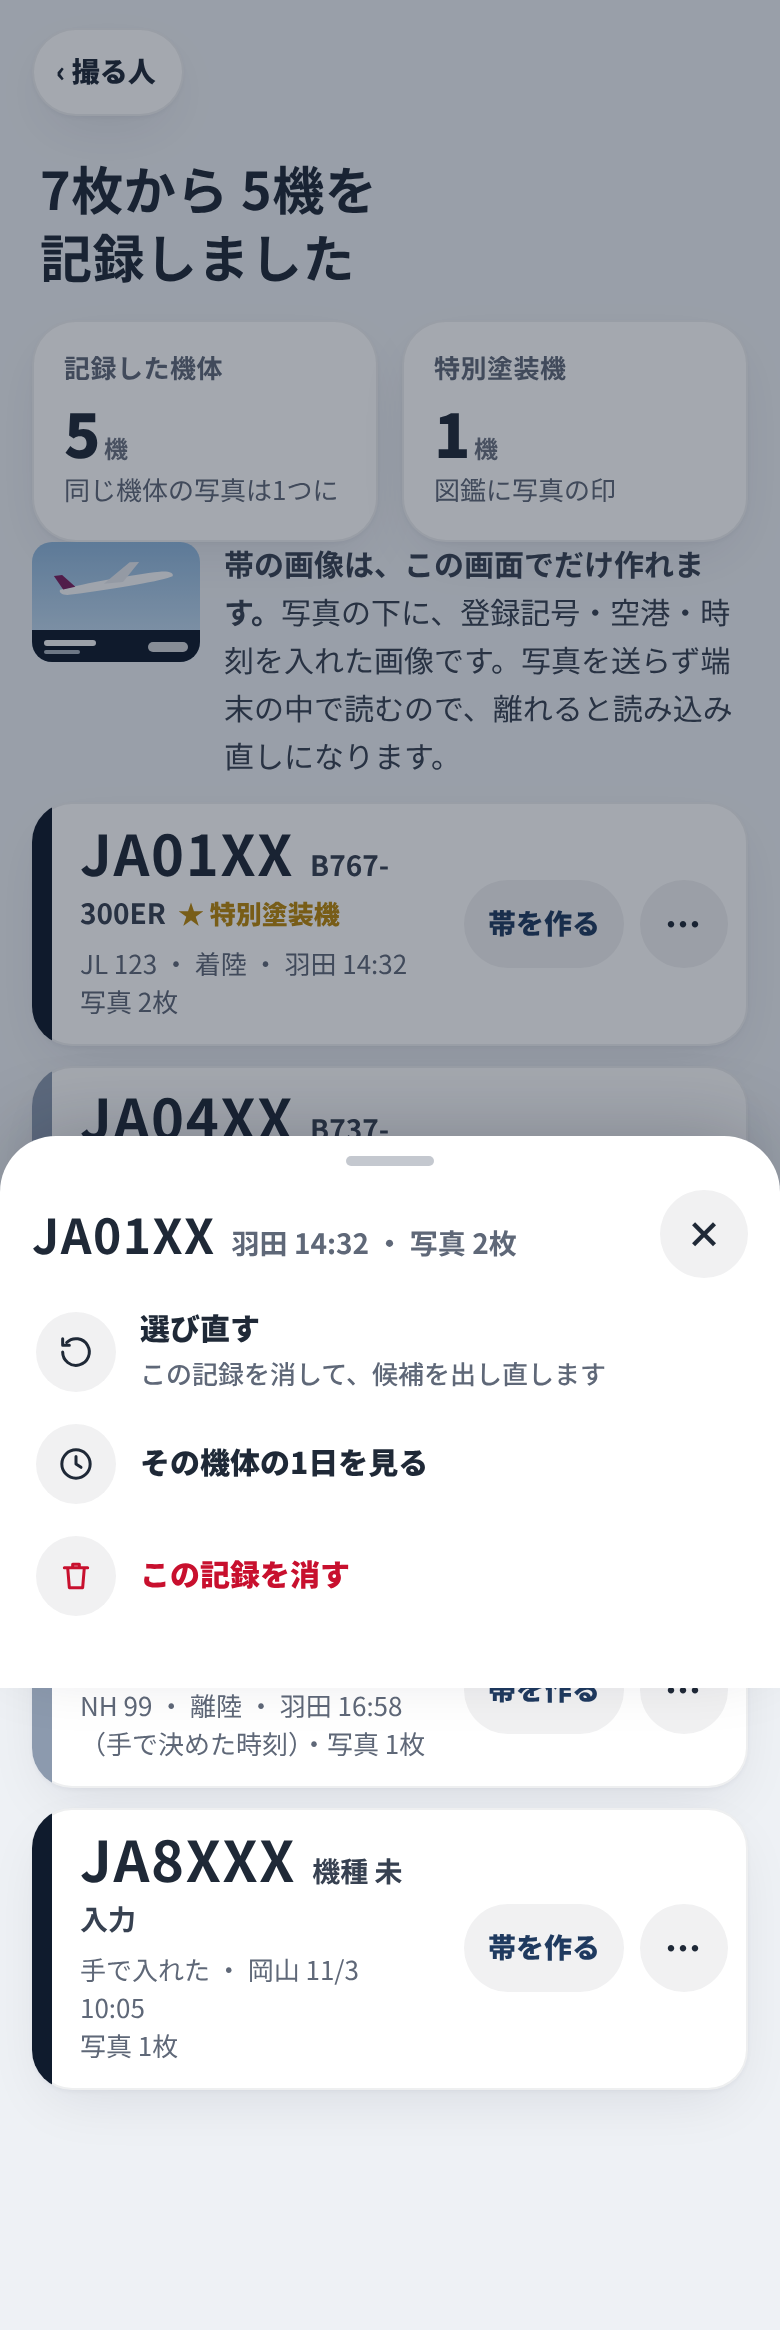
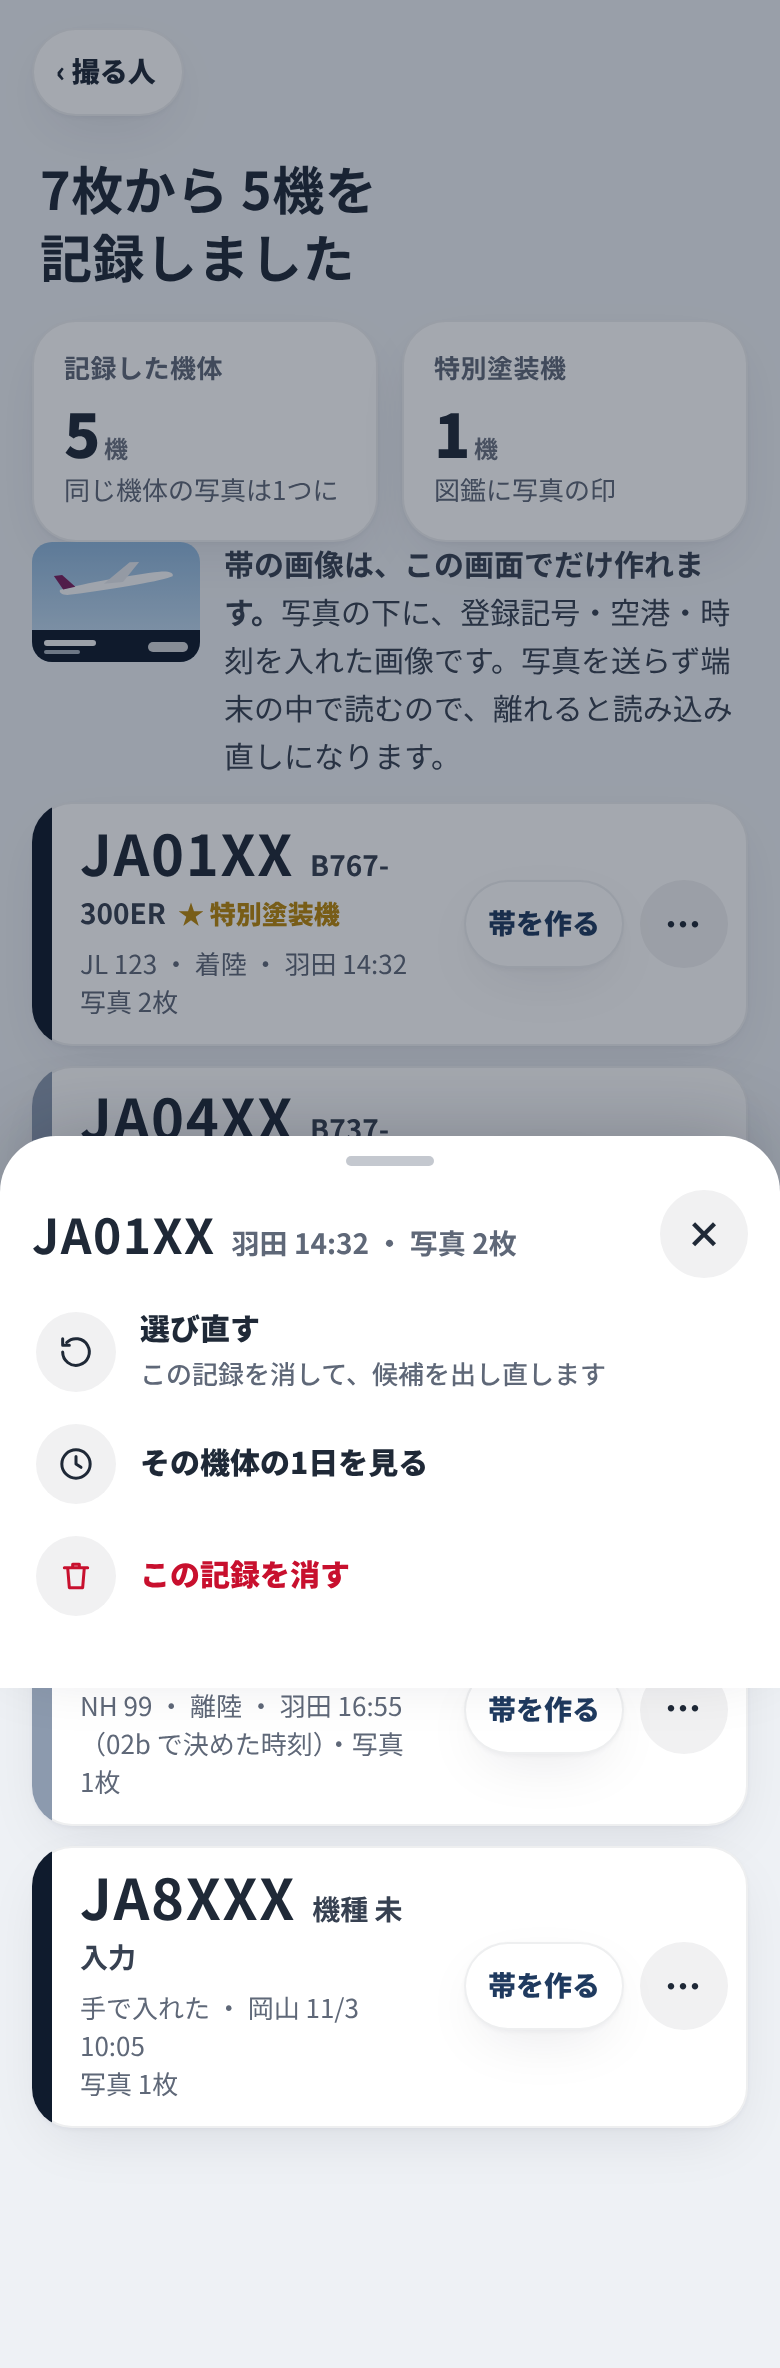
撮影記録の画面案 4版：PM の指示（11/7 1時35分）に合わせ、帯のピルを白地に紺の字に・02d の時刻なしの写真を決めた時刻で記録する形にし、報告に review-3 への対応表を足す
Claude-Session: https://claude.ai/code/session_01WGRBVLyUzvfRYV5NGKWhRZ

diff --git a/docs/design/photo-log/02d-done-v4.html b/docs/design/photo-log/02d-done-v4.html
@@ -317,7 +317,7 @@ p.lead{font-size:15px;color:var(--ink);margin:10px 4px 0;line-height:1.7}
 @media (prefers-color-scheme:dark){:root:not([data-theme=light]){--navy-ink:#A9C3E6}}
 :root[data-theme=dark]{--navy-ink:#A9C3E6}
 .clk .ln .v.q{font-size:14px;color:var(--ink);background:var(--pill);padding:4px 10px;border-radius:999px}
-.bandp{background:var(--pill);color:var(--navy-ink);padding:0 12px;font-size:14px}
+.bandp{background:var(--card);color:var(--navy-ink);padding:0 12px;font-size:14px;box-shadow:var(--shadow)}
 .bandp.done{background:var(--pill);color:var(--sub)}
 .strip .m small{word-break:keep-all}
 .strip .m .ty .star{margin-left:6px;font-size:13px}
@@ -338,14 +338,14 @@ p.lead{font-size:15px;color:var(--ink);margin:10px 4px 0;line-height:1.7}
 <div class="strip"><span class="bd" aria-hidden="true"></span><div class="m"><span class="rg">JA01XX</span><span class="ty">B767-300ER<span class="star">★ 特別塗装機</span></span><small>JL 123 ・ 着陸 ・ 羽田 14:32<br>写真 2枚</small></div><div class="r rm"><span class="bandp" aria-label="帯を入れた画像を作る">帯を作る</span><span class="more" aria-label="この記録のメニュー">…</span></div></div>
 <div class="strip dep"><span class="bd" aria-hidden="true"></span><div class="m"><span class="rg">JA04XX</span><span class="ty">B737-800</span><small>JL 220 ・ 離陸 ・ 羽田 14:29<br>写真 1枚</small></div><div class="r rm"><span class="bandp" aria-label="帯を入れた画像を作る">帯を作る</span><span class="more" aria-label="この記録のメニュー">…</span></div></div>
 <div class="strip dep"><span class="bd" aria-hidden="true"></span><div class="m"><span class="rg">JA09XX</span><span class="ty">B777-300ER</span><small>JL 915 ・ 離陸 ・ 羽田 14:21<br>写真 2枚</small></div><div class="r rm"><span class="bandp" aria-label="帯を入れた画像を作る">帯を作る</span><span class="more" aria-label="この記録のメニュー">…</span></div></div>
-<div class="strip dep"><span class="bd" aria-hidden="true"></span><div class="m"><span class="rg">JA06XX</span><span class="ty">A321neo</span><small>NH 99 ・ 離陸 ・ 羽田 16:58<br>（手で決めた時刻）・写真 1枚</small></div><div class="r rm"><span class="bandp" aria-label="帯を入れた画像を作る">帯を作る</span><span class="more" aria-label="この記録のメニュー">…</span></div></div>
+<div class="strip dep"><span class="bd" aria-hidden="true"></span><div class="m"><span class="rg">JA06XX</span><span class="ty">A321neo</span><small>NH 99 ・ 離陸 ・ 羽田 16:55<br>（02b で決めた時刻）・写真 1枚</small></div><div class="r rm"><span class="bandp" aria-label="帯を入れた画像を作る">帯を作る</span><span class="more" aria-label="この記録のメニュー">…</span></div></div>
 <div class="strip unk"><span class="bd" aria-hidden="true"></span><div class="m"><span class="rg">JA8XXX</span><span class="ty none">機種 未入力</span><small>手で入れた ・ 岡山 11/3 10:05<br>写真 1枚</small></div><div class="r rm"><span class="bandp" aria-label="帯を入れた画像を作る">帯を作る</span><span class="more" aria-label="この記録のメニュー">…</span></div></div>
 
 </div>
 <div class="foot2"><span class="btn sec">図鑑を見る</span><span class="btn navy">撮った機体の一覧へ</span></div>
 </main>
 
-<aside class="ann"><b>メモ（本番には出ません）</b><ul><li><b>4版で直したこと（3回目の指摘3）</b>：上のカードに帯の画像の小さい見本（写真の下に紺の帯）と「写真の下に、登録記号・空港・時刻を入れた画像です」。行のピルは紺で塗らず、薄い灰色の地に紺の字「帯を作る」。紺で塗るのは下の主のボタン「撮った機体の一覧へ」だけ。作ったあとは灰色の「帯 ✓」</li><li><b>4版で直したこと（3回目の指摘1）</b>：時刻のなかった写真（JA06XX）は「羽田 16:58（手で決めた時刻）」。02b で本人が決めた時刻だと分かる形</li><li><b>4版で直したこと（3回目の指摘6）</b>：「★ 特別塗装機」を機種の横へ移し、3行目は「JL 123 ・ 着陸 ・ 羽田 14:32」。言葉の途中で折り返さないよう区切りごとに折り返す</li><li>上のタイルの補足は「図鑑に写真の印」（図鑑の「撮った」の意味を1つにしたため。05 を見る）</li><li>まだ1つも作らずに下のボタン・「‹ 撮る人」を押したときは 02f の知らせを1回出す。「…」は「選び直す」「この記録を消す」「その機体の1日を見る」（02e）</li><li>手で入れた JA8XXX（着陸か離陸か分からない）は帯を薄い灰色</li></ul></aside>
+<aside class="ann"><b>メモ（本番には出ません）</b><ul><li><b>4版で直したこと（3回目の指摘3）</b>：上のカードに帯の画像の小さい見本（写真の下に紺の帯）と「写真の下に、登録記号・空港・時刻を入れた画像です」。行のピルは紺で塗らず、白地に紺の字「帯を作る」（白いカードの上なので薄い影で形を見せる）。紺で塗るのは下の主のボタン「撮った機体の一覧へ」だけ。作ったあとは灰色の「帯 ✓」</li><li><b>4版で直したこと（3回目の指摘1）</b>：時刻のなかった写真（JA06XX）は「羽田 16:55（02b で決めた時刻）」。ファイルの時刻（16:58）のままでは記録せず、02b で本人が時刻を決めてから候補を出したものだけ記録する。見本ではファイルの時刻と違う値にして、決めた時刻だと分かるようにした</li><li><b>4版で直したこと（3回目の指摘6）</b>：「★ 特別塗装機」を機種の横へ移し、3行目は「JL 123 ・ 着陸 ・ 羽田 14:32」。言葉の途中で折り返さないよう区切りごとに折り返す</li><li>上のタイルの補足は「図鑑に写真の印」（図鑑の「撮った」の意味を1つにしたため。05 を見る）</li><li>まだ1つも作らずに下のボタン・「‹ 撮る人」を押したときは 02f の知らせを1回出す。「…」は「選び直す」「この記録を消す」「その機体の1日を見る」（02e）</li><li>手で入れた JA8XXX（着陸か離陸か分からない）は帯を薄い灰色</li></ul></aside>
 <script>if(window!==window.top){var a=document.querySelector('.ann');if(a)a.remove()}</script>
 </body>
 </html>

diff --git a/docs/design/photo-log/02e-row-menu-v4.html b/docs/design/photo-log/02e-row-menu-v4.html
@@ -288,7 +288,7 @@ p.lead{font-size:15px;color:var(--ink);margin:10px 4px 0;line-height:1.7}
 @media (prefers-color-scheme:dark){:root:not([data-theme=light]){--navy-ink:#A9C3E6}}
 :root[data-theme=dark]{--navy-ink:#A9C3E6}
 .clk .ln .v.q{font-size:14px;color:var(--ink);background:var(--pill);padding:4px 10px;border-radius:999px}
-.bandp{background:var(--pill);color:var(--navy-ink);padding:0 12px;font-size:14px}
+.bandp{background:var(--card);color:var(--navy-ink);padding:0 12px;font-size:14px;box-shadow:var(--shadow)}
 .bandp.done{background:var(--pill);color:var(--sub)}
 .strip .m small{word-break:keep-all}
 .strip .m .ty .star{margin-left:6px;font-size:13px}
@@ -310,7 +310,7 @@ p.lead{font-size:15px;color:var(--ink);margin:10px 4px 0;line-height:1.7}
 <div class="strip"><span class="bd" aria-hidden="true"></span><div class="m"><span class="rg">JA01XX</span><span class="ty">B767-300ER<span class="star">★ 特別塗装機</span></span><small>JL 123 ・ 着陸 ・ 羽田 14:32<br>写真 2枚</small></div><div class="r rm"><span class="bandp" aria-label="帯を入れた画像を作る">帯を作る</span><span class="more" aria-label="この記録のメニュー">…</span></div></div>
 <div class="strip dep"><span class="bd" aria-hidden="true"></span><div class="m"><span class="rg">JA04XX</span><span class="ty">B737-800</span><small>JL 220 ・ 離陸 ・ 羽田 14:29<br>写真 1枚</small></div><div class="r rm"><span class="bandp" aria-label="帯を入れた画像を作る">帯を作る</span><span class="more" aria-label="この記録のメニュー">…</span></div></div>
 <div class="strip dep"><span class="bd" aria-hidden="true"></span><div class="m"><span class="rg">JA09XX</span><span class="ty">B777-300ER</span><small>JL 915 ・ 離陸 ・ 羽田 14:21<br>写真 2枚</small></div><div class="r rm"><span class="bandp" aria-label="帯を入れた画像を作る">帯を作る</span><span class="more" aria-label="この記録のメニュー">…</span></div></div>
-<div class="strip dep"><span class="bd" aria-hidden="true"></span><div class="m"><span class="rg">JA06XX</span><span class="ty">A321neo</span><small>NH 99 ・ 離陸 ・ 羽田 16:58<br>（手で決めた時刻）・写真 1枚</small></div><div class="r rm"><span class="bandp" aria-label="帯を入れた画像を作る">帯を作る</span><span class="more" aria-label="この記録のメニュー">…</span></div></div>
+<div class="strip dep"><span class="bd" aria-hidden="true"></span><div class="m"><span class="rg">JA06XX</span><span class="ty">A321neo</span><small>NH 99 ・ 離陸 ・ 羽田 16:55<br>（02b で決めた時刻）・写真 1枚</small></div><div class="r rm"><span class="bandp" aria-label="帯を入れた画像を作る">帯を作る</span><span class="more" aria-label="この記録のメニュー">…</span></div></div>
 <div class="strip unk"><span class="bd" aria-hidden="true"></span><div class="m"><span class="rg">JA8XXX</span><span class="ty none">機種 未入力</span><small>手で入れた ・ 岡山 11/3 10:05<br>写真 1枚</small></div><div class="r rm"><span class="bandp" aria-label="帯を入れた画像を作る">帯を作る</span><span class="more" aria-label="この記録のメニュー">…</span></div></div>
 
 </div>

diff --git a/docs/design/photo-log/02f-leave-v4.html b/docs/design/photo-log/02f-leave-v4.html
@@ -317,7 +317,7 @@ p.lead{font-size:15px;color:var(--ink);margin:10px 4px 0;line-height:1.7}
 @media (prefers-color-scheme:dark){:root:not([data-theme=light]){--navy-ink:#A9C3E6}}
 :root[data-theme=dark]{--navy-ink:#A9C3E6}
 .clk .ln .v.q{font-size:14px;color:var(--ink);background:var(--pill);padding:4px 10px;border-radius:999px}
-.bandp{background:var(--pill);color:var(--navy-ink);padding:0 12px;font-size:14px}
+.bandp{background:var(--card);color:var(--navy-ink);padding:0 12px;font-size:14px;box-shadow:var(--shadow)}
 .bandp.done{background:var(--pill);color:var(--sub)}
 .strip .m small{word-break:keep-all}
 .strip .m .ty .star{margin-left:6px;font-size:13px}
@@ -338,7 +338,7 @@ p.lead{font-size:15px;color:var(--ink);margin:10px 4px 0;line-height:1.7}
 <div class="strip"><span class="bd" aria-hidden="true"></span><div class="m"><span class="rg">JA01XX</span><span class="ty">B767-300ER<span class="star">★ 特別塗装機</span></span><small>JL 123 ・ 着陸 ・ 羽田 14:32<br>写真 2枚</small></div><div class="r rm"><span class="bandp" aria-label="帯を入れた画像を作る">帯を作る</span><span class="more" aria-label="この記録のメニュー">…</span></div></div>
 <div class="strip dep"><span class="bd" aria-hidden="true"></span><div class="m"><span class="rg">JA04XX</span><span class="ty">B737-800</span><small>JL 220 ・ 離陸 ・ 羽田 14:29<br>写真 1枚</small></div><div class="r rm"><span class="bandp" aria-label="帯を入れた画像を作る">帯を作る</span><span class="more" aria-label="この記録のメニュー">…</span></div></div>
 <div class="strip dep"><span class="bd" aria-hidden="true"></span><div class="m"><span class="rg">JA09XX</span><span class="ty">B777-300ER</span><small>JL 915 ・ 離陸 ・ 羽田 14:21<br>写真 2枚</small></div><div class="r rm"><span class="bandp" aria-label="帯を入れた画像を作る">帯を作る</span><span class="more" aria-label="この記録のメニュー">…</span></div></div>
-<div class="strip dep"><span class="bd" aria-hidden="true"></span><div class="m"><span class="rg">JA06XX</span><span class="ty">A321neo</span><small>NH 99 ・ 離陸 ・ 羽田 16:58<br>（手で決めた時刻）・写真 1枚</small></div><div class="r rm"><span class="bandp" aria-label="帯を入れた画像を作る">帯を作る</span><span class="more" aria-label="この記録のメニュー">…</span></div></div>
+<div class="strip dep"><span class="bd" aria-hidden="true"></span><div class="m"><span class="rg">JA06XX</span><span class="ty">A321neo</span><small>NH 99 ・ 離陸 ・ 羽田 16:55<br>（02b で決めた時刻）・写真 1枚</small></div><div class="r rm"><span class="bandp" aria-label="帯を入れた画像を作る">帯を作る</span><span class="more" aria-label="この記録のメニュー">…</span></div></div>
 <div class="strip unk"><span class="bd" aria-hidden="true"></span><div class="m"><span class="rg">JA8XXX</span><span class="ty none">機種 未入力</span><small>手で入れた ・ 岡山 11/3 10:05<br>写真 1枚</small></div><div class="r rm"><span class="bandp" aria-label="帯を入れた画像を作る">帯を作る</span><span class="more" aria-label="この記録のメニュー">…</span></div></div>
 
 </div>

diff --git a/docs/pm/report-photo-log.md b/docs/pm/report-photo-log.md
@@ -115,7 +115,7 @@ PM の指示（11/6 22時45分）。撮る人用担当の依頼 9-1。仕様は 
 - 確かめ方：幅390×844で撮った。13px 未満は単位12pxだけ・44px 未満 0・はみ出し 0
 
 ### 作ったもの
-- 必ず直す3つ：①02a の時刻のない写真は「時刻なし」＋「ファイルの時刻 16:58（撮った時刻とは限りません）」、「決める ›」で 02b。02d は「（手で決めた時刻）」②図鑑のカードの下の行は「いちばん強い記録」、撮ったことはカメラの印で「写真あり」、絞り込み「写真あり 6」③02d に帯の小さい見本、行のピルは灰色の地に紺の字「帯を作る」
+- 必ず直す3つ：①02a の時刻のない写真は「時刻なし」＋「ファイルの時刻 16:58（撮った時刻とは限りません）」、「決める ›」で 02b。02d は「（手で決めた時刻）」②図鑑のカードの下の行は「いちばん強い記録」、撮ったことはカメラの印で「写真あり」、絞り込み「写真あり 6」③02d に帯の小さい見本、行のピルは白地に紺の字「帯を作る」
 - 小さい指摘4〜10（✓ は押すと外せる・時刻はずれを足したあとに統一・★ を機種の横へ・「戻って帯を作る」・02e の後ろ・「まだ」の色・滑走路は航跡のときだけ）と、review-2 の残り7・8・10（02 の説明・04 の並びと絞り込み・「違う機体の数」）。対応表は answer-3.md
 
 ### 迷った点
@@ -125,3 +125,15 @@ PM の指示（11/6 22時45分）。撮る人用担当の依頼 9-1。仕様は 
 
 ### 本人に決めてほしいこと（2版から変わらず）
 1. 一覧は案2 でよいか／2. 帯の画像を最初の版に入れるか（06）／3. 撮っただけの特別塗装機を「集めた」に数えるか（05-v4 と 05b-v4 を並べて）／4. まとめて記録する形（02a-v4）でよいか
+
+### PM の指示（11/7 1時35分）への対応表（review-3 の新しい指摘1〜3）
+指示の中身は4版でほぼ入っていたので、違っていた2か所（ピルの地の色・02d の時刻）を直して撮り直した。
+
+| # | 指示 | 4版 | 画面 |
+|---|---|---|---|
+| 1 | 02a：時刻がない行は「時刻なし」＋「ファイルの時刻 16:58（撮った時刻とは限りません）」、押すと 02b。02d でもファイルの時刻で記録しない | **直した**。ボタンは「決める ›」で 02b へ。02d の行は「羽田 16:55（02b で決めた時刻）」で、見本ではファイルの時刻（16:58）と違う値にした。決めるまで候補を出さず、確かな候補にもしない | 02a-v4・02d-v4（02e・02f の後ろも同じ） |
+| 2 | 05・05b：「撮った」を1つの意味に。カードはいちばん強い記録、撮ったことはカメラの印だけ、絞り込みは別の言葉、数が合う | **直した**。JA01XX「見た・10/12 羽田」、JA07XX「撮っただけ・10/30 伊丹」。カメラの印＝「写真あり」、絞り込み「写真あり 6」。内訳は乗った 5＋見た 13＋撮っただけ 1＝19（05b は 18）。写真あり 6 のうち 5機は乗ったか見たでも数えている（注とメモに書いた） | 05-v4・05b-v4 |
+| 3 | 02d：行のピルは白地に紺の字「帯を作る」、上のカードに帯の見本、紺で塗るのは主のボタンだけ | **直した**。ピルは白地（白いカードの上なので薄い影で形を見せる）に紺の字。上のカードに帯の小さい見本と「写真の下に、登録記号・空港・時刻を入れた画像です」。紺で塗るのは「撮った機体の一覧へ」だけ | 02d-v4・02e-v4・02f-v4 |
+| あわせて | 2版のままの 02 と 04 を3版の決まりにそろえる | **直した**。02：説明「上の2つが近いので、選んでください。」を見出しのすぐ下へ、押せないボタンの字を濃く。04：「並び：新しい順 ▾」と「★ 特別塗装機だけ」に分け、★ は機種の横、37機は「違う機体の数／記録は 41回」 | 02-v4・04c-v4 |
+
+review-3 の指摘4〜10の対応は answer-3.md の表のとおり（全部直した。10 の滑走路はメモ）。測った値（撮り直したあと）：13px 未満は単位12pxだけ・44px 未満 0・はみ出し 0。
